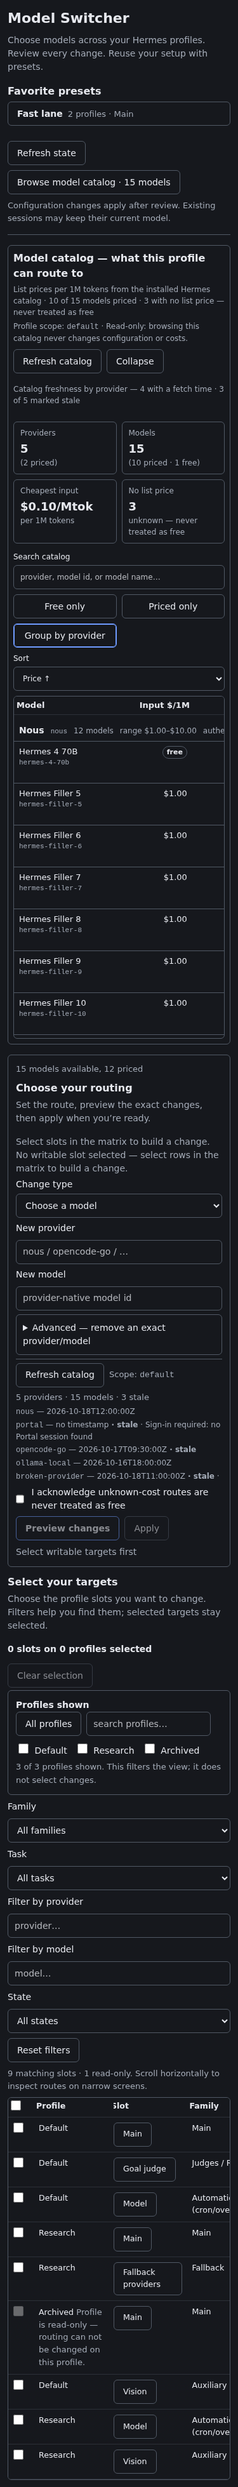
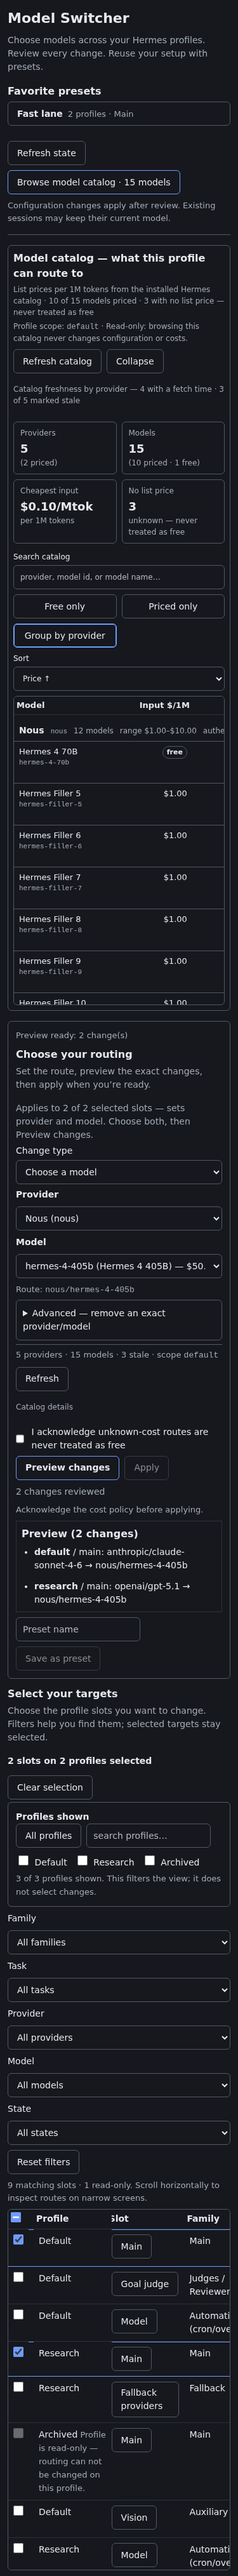
docs(promotion): regenerate screenshots and align docs with the shipped UI
- Regenerate the 5 fixture screenshots from the current native-dropdown
  editor (dark/light 1440, dark 375, catalog 1440/375); the previous
  captures showed the superseded combobox controls and contradicted the
  README's own instructions.
- Recapture the 3 real-dashboard lab captures from an isolated synthetic
  lab (throwaway HERMES_HOME, never the live dashboard) with verified
  readback: Preview left config bytes unchanged, Apply changed them, Undo
  restored them exactly (real operation id op-cba21275e3d7).
  real-preview is now 2880x1956 (was an unreadable 335x177).
- README: filter terms and step headings now byte-match ui/src/main.jsx;
  all 8 images referenced.
- CHANGELOG: explicit 0.2.0 section dated 2026-10-14 (the 15434cc release).
- package.json: add description field matching plugin.yaml.
- docs/images/README.md: document all 8 PNGs with truthful provenance.

Verification: pytest 538 passed, 1 skipped; npm test 128 passed;
npm run build in sync with the committed dashboard/dist;
hermes plugins validate + doctor --ci green (expected catalog rule 9 note);
privacy guard clean (134 files scanned).

diff --git a/docs/images/README.md b/docs/images/README.md
@@ -1,32 +1,40 @@
 # Product screenshots
 
-The three theme/viewport PNGs show the compiled plugin in the repository's Dashboard SDK fixture,
-with synthetic Default, Research and Archived profiles. They are authentic
-renders of the plugin UI, not a live Dashboard deployment or provider execution.
-Recorded usage is deliberately absent. The preview selects two main-model slots;
-Apply remains disabled until the cost acknowledgment is checked.
+All eight PNGs in this directory were regenerated on **2026-10-19** from the current
+routing editor (merged as PR #13). They document the Model Switcher interface, not
+provider execution.
+
+## Fixture renders — the compiled plugin
+
+The five theme, catalog and viewport PNGs are authentic renders of the compiled
+plugin in this repository's Dashboard SDK fixture, driven with synthetic Default,
+Research and Archived profiles. They are real captures of the plugin UI — not a
+live Dashboard deployment and not provider execution. Recorded usage is
+deliberately absent.
 
 - `model-switcher-dark-1440.png`: desktop, dark host theme.
 - `model-switcher-light-1440.png`: desktop, light host theme.
 - `model-switcher-dark-375.png`: narrow screen, dark host theme; the matrix scrolls
   horizontally inside its own region.
+- `model-switcher-catalog-1440.png`: the bird's-eye model catalog, desktop.
+- `model-switcher-catalog-375.png`: the model catalog on a narrow screen.
 
-Captured during the 2026-10-14 release-preparation pass after building the current
-candidate. No private profile data, credentials, host addresses, file paths,
-or real operation results are displayed.
+No private profile data, credentials, host addresses, file paths, or real
+operation results are displayed in these fixture shots.
 
 ## Actual Hermes Dashboard lab captures
 
-Captured from candidate `188add0` in the real Hermes Dashboard, using an isolated
-synthetic default profile:
+The three `real-*` PNGs are captures from an isolated lab Hermes Dashboard running
+a single synthetic default profile. The browser drove Preview, Apply and guarded
+Undo through the real host UI: the configuration bytes were unchanged by Preview,
+changed by Apply, and restored exactly by Undo, and separate HTTP checks confirmed
+authenticated API responses and served-asset hashes. No provider inference was
+performed.
 
 - `model-switcher-real-dashboard.png`: the loaded routing matrix and editor.
 - `model-switcher-real-preview.png`: a real preview of the synthetic main-model change.
 - `model-switcher-real-operation.png`: a committed operation with verified readback.
 
-The browser drove Preview, Apply and guarded Undo through the real host UI; the
-configuration bytes were unchanged by Preview, changed by Apply, and restored
-exactly by Undo. Separate HTTP checks confirmed authenticated API responses and
-served-asset hashes. No provider inference was performed. Operation/revision IDs
-are real lab-generated identifiers, not fabricated success data. The lab, server
-and listening port were checked clean after teardown.
+Operation and revision IDs shown are real lab-generated identifiers, not
+fabricated success data. No private data is displayed, and the lab, server and
+listening port were checked clean after teardown.

diff --git a/README.md b/README.md
@@ -35,9 +35,17 @@ Built for the Hermes Dashboard, using its themes and authenticated transport. MI
 screenshot demonstrates the interface; it is not evidence of live Dashboard
 deployment or provider inference.*
 
+![The same interface following the host's light theme](docs/images/model-switcher-light-1440.png)
+
+*The plugin follows the host Dashboard's theme; the light theme is shown here.*
+
 ![Model catalog with list prices per 1M tokens](docs/images/model-switcher-catalog-1440.png)
 
 ![Model catalog on a narrow screen](docs/images/model-switcher-catalog-375.png)
+
+![The routing matrix on a narrow screen](docs/images/model-switcher-dark-375.png)
+
+*On a narrow screen the matrix scrolls horizontally inside its own region.*
 
 ### In the real Hermes Dashboard
 
@@ -118,10 +126,11 @@ when you rebuild the UI yourself.
 
 ## Make your first switch
 
-1. **Select targets.** Filter by profile, family, slot, or state, then select the
-   slots you want to change. Filtering changes the view only; checkboxes choose edit
-   targets. The selection summary includes selected slots hidden by filters.
-2. **Choose routing.** Pick a provider, then a model from its dropdown (each
+1. **Select your targets.** Narrow the matrix with the **Profiles shown** selector
+   and the **Family**, **Task**, **Provider**, **Model**, and **State** filters, then
+   select the slots you want to change. Filtering changes the view only; checkboxes
+   choose edit targets. The selection summary includes selected slots hidden by filters.
+2. **Choose your routing.** Pick a provider, then a model from its dropdown (each
    entry shows its list price), open **Browse model catalog** to compare options, or
    choose **Other** to enter an exact provider/model pair for custom routes. Model IDs belong to their provider,
    so keep the pair together.

diff --git a/CHANGELOG.md b/CHANGELOG.md
@@ -39,6 +39,8 @@
 - New backend tests (catalog pricing and catalog API) and browser specs
   (`dropdowns.spec.mjs`, `models-catalog.spec.mjs`, `real-catalog.spec.mjs`).
 
+## 0.2.0 — 2026-10-14
+
 ### Removed
 
 - The `/probe` HTTP route is gone. It previously always refused and never performed an inference probe, so removing it loses no supported inference capability.
